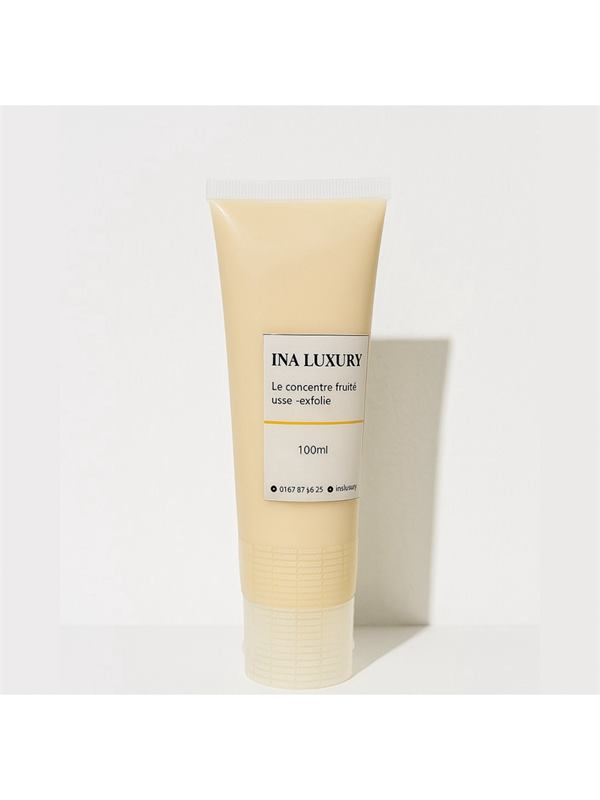
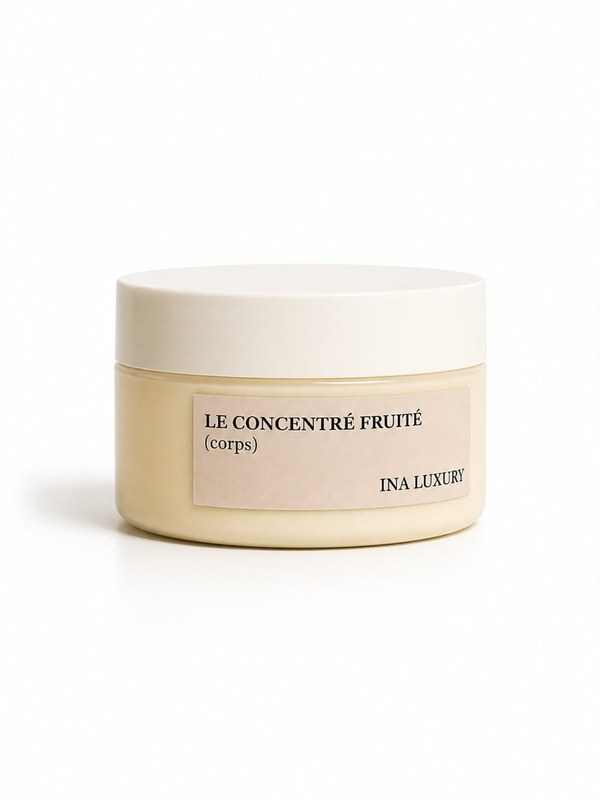
feat(luxury-skin-clinic): INA Luxury « Concentré Fruité » — nouveau packaging (pot)
Remplace la photo (ancien tube) par le nouveau pot « LE CONCENTRÉ FRUITÉ
(corps) INA LUXURY », recadré 600×800 au format catalogue, + cache-bust
?v=20260715 sur la fiche. Source _processed mise à jour.

Changed region(s): [[0.12, 0.2188, 0.9, 0.875]]

diff --git a/clients/04-luxury-skin-clinic/ina-luxury.html b/clients/04-luxury-skin-clinic/ina-luxury.html
@@ -955,7 +955,7 @@ const IMG={
   "Rose Hydra Serum":"assets/images/ina-luxury/visage/serums/rose-hydra-serum.jpg",
   "Rose Purifiant Sérum":"assets/images/ina-luxury/visage/serums/rose-purifiant-serum.jpg",
   "Sérum Oxygène":"assets/images/ina-luxury/visage/serums/serum-oxygene.jpg",
-  "Concentré Fruité":"assets/images/ina-luxury/corps/gommage/concentre-fruite.jpg",
+  "Concentré Fruité":"assets/images/ina-luxury/corps/gommage/concentre-fruite.jpg?v=20260715",
   "Kojic Beauty Bar":"assets/images/ina-luxury/corps/beauty-bar/kojic-beauty-bar.png",
   "Milk Beauty Bar":"assets/images/ina-luxury/corps/beauty-bar/milk-beauty-bar.jpg",
   "Savon Noir Papaya":"assets/images/ina-luxury/corps/savon-noir/savon-noir-papaya.jpg",